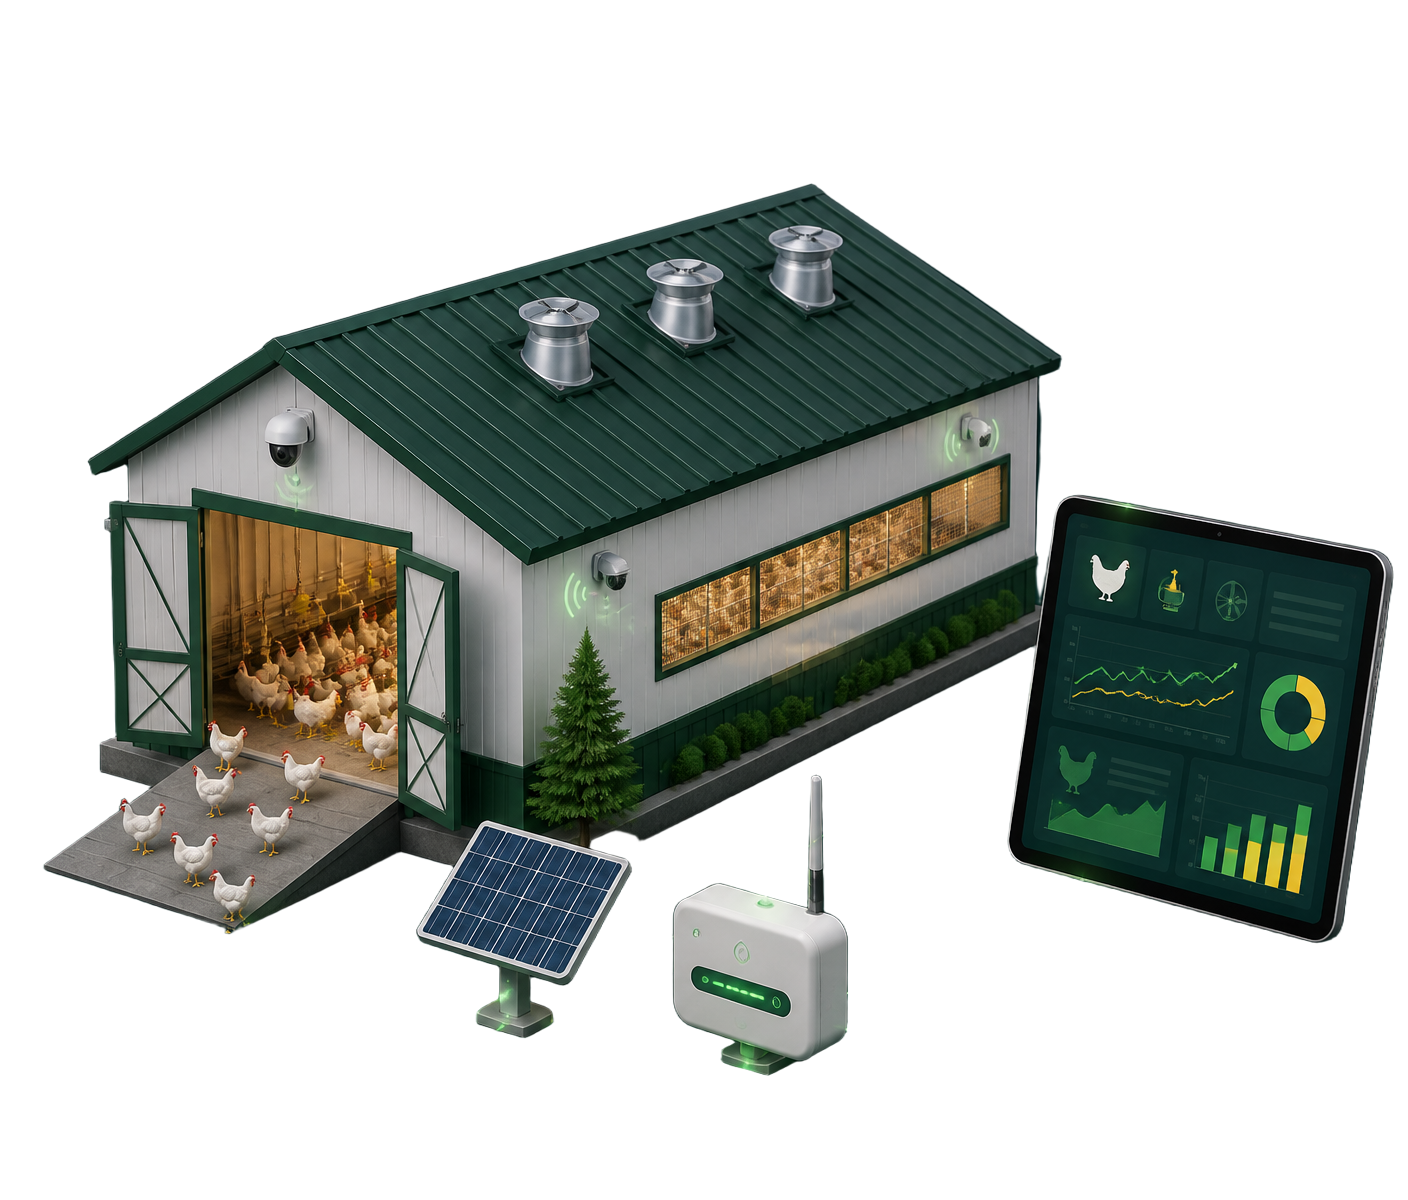
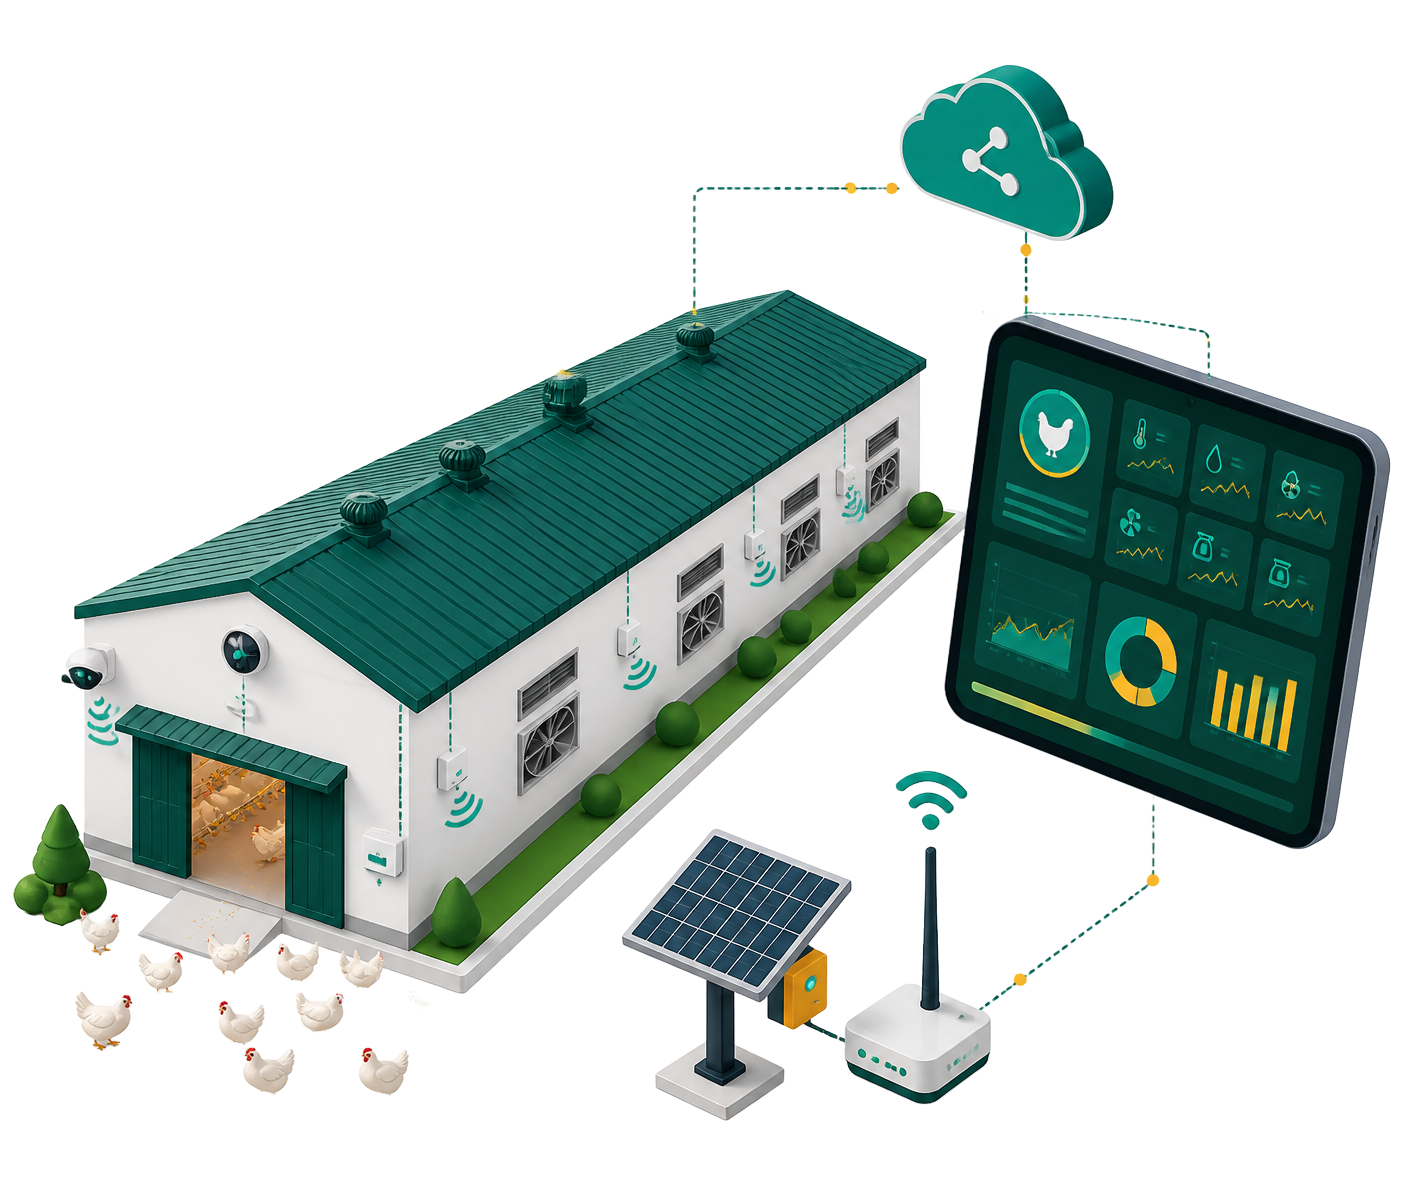
Industry Challenges

diff --git a/src/components/home/Hero.tsx b/src/components/home/Hero.tsx
@@ -164,14 +164,16 @@ export function Hero() {
 
   // Split into left/right rails flanking the illustration (no overlap with the house)
   const leftCards = [
-    <FloatCard key="temp" icon={<Thermometer className="h-4 w-4" />} label={t("hero.cards.temperature")} value="24.6" unit="°C" accent="green" delay={0.1} />,
-    <FloatCard key="alert" icon={<AlertTriangle className="h-4 w-4" />} label={t("hero.cards.aiAlert")} value={t("hero.cards.aiAlertValue")} accent="red" delay={0.35} />,
-    <FloatCard key="water" icon={<Droplet className="h-4 w-4" />} label={t("hero.cards.water")} value="12.4" unit="KL" accent="blue" delay={0.2} />,
+    <FloatCard key="fcr" icon={<BarChart3 className="h-4 w-4" />} label={t("hero.cards.fcr")} value="1.52" accent="violet" delay={0.1} />,
+    <FloatCard key="bird" icon={<Bird className="h-4 w-4" />} label={t("hero.cards.birdWeight")} value="2.35" unit="kg" accent="yellow" delay={0.2} />,
+    <FloatCard key="feed" icon={<Wheat className="h-4 w-4" />} label={t("hero.cards.feedIntake")} value="1,248" unit="kg" accent="amber" delay={0.3} />,
+   
   ];
   const rightCards = [
-    <FloatCard key="feed" icon={<Wheat className="h-4 w-4" />} label={t("hero.cards.feedIntake")} value="1,248" unit="kg" accent="amber" delay={0.25} />,
-    <FloatCard key="bird" icon={<Bird className="h-4 w-4" />} label={t("hero.cards.birdWeight")} value="2.35" unit="kg" accent="yellow" delay={0.15} />,
-    <FloatCard key="fcr" icon={<BarChart3 className="h-4 w-4" />} label={t("hero.cards.fcr")} value="1.52" accent="violet" delay={0.3} />,
+    <FloatCard key="temp" icon={<Thermometer className="h-4 w-4" />} label={t("hero.cards.temperature")} value="24.6" unit="°C" accent="green" delay={0.15} />,
+    <FloatCard key="water" icon={<Droplet className="h-4 w-4" />} label={t("hero.cards.water")} value="12.4" unit="KL" accent="blue" delay={0.25} />,
+    <FloatCard key="alert" icon={<AlertTriangle className="h-4 w-4" />} label={t("hero.cards.aiAlert")} value={t("hero.cards.aiAlertValue")} accent="red" delay={0.35} />,
+
 
   ];
 

diff --git a/src/components/home/Challenge.tsx.tsx b/src/components/home/Challenge.tsx.tsx
@@ -61,14 +61,11 @@ export function Challenge() {
           </span>
 
           <h2 className="mt-6 text-4xl font-bold tracking-tight text-slate-900">
-            Poultry Production Has Become More Complex Than Ever
+            Why Modern Poultry Operations Are Losing Profit Every Day
           </h2>
 
           <p className="mt-6 text-lg leading-8 text-slate-600">
-            Rising operational costs, environmental variability, labor dependency,
-            and disconnected systems make efficient poultry management increasingly
-            difficult. Smart Poultry addresses these challenges with one
-            intelligent operating platform.
+            Rising feed costs, unpredictable flock performance, labour shortages and disconnected farm data make profitable poultry operations increasingly difficult. Smart Poultry transforms fragmented operations into one intelligent decision-making platform.
           </p>
         </div>
 
